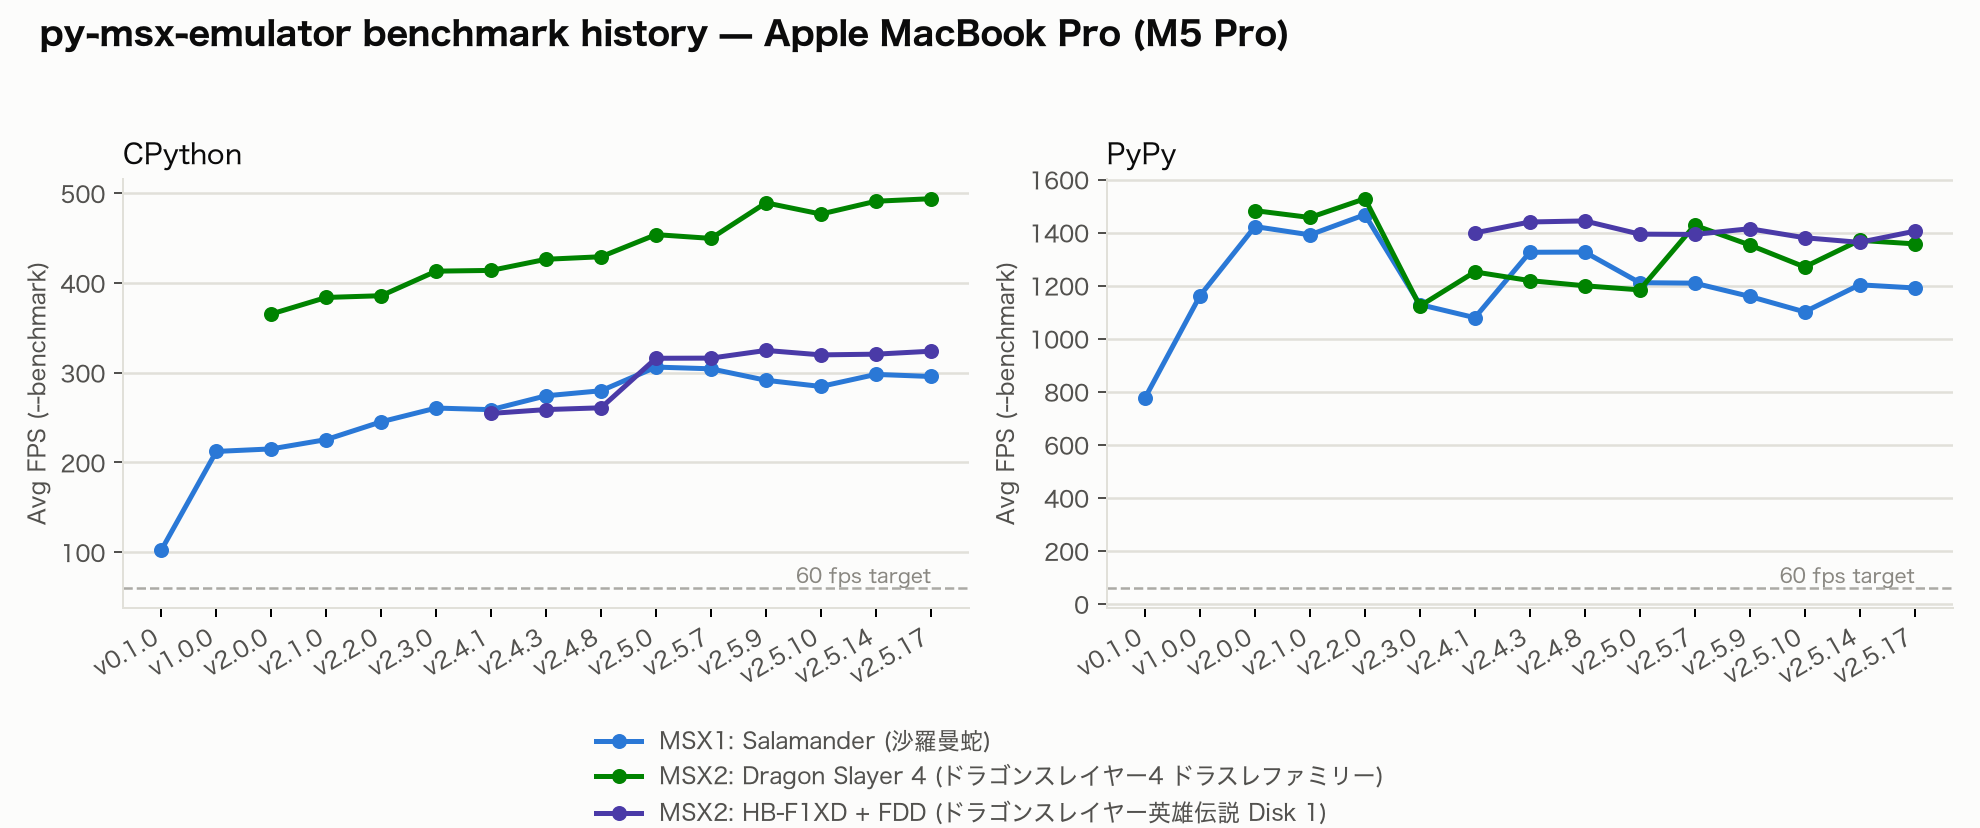
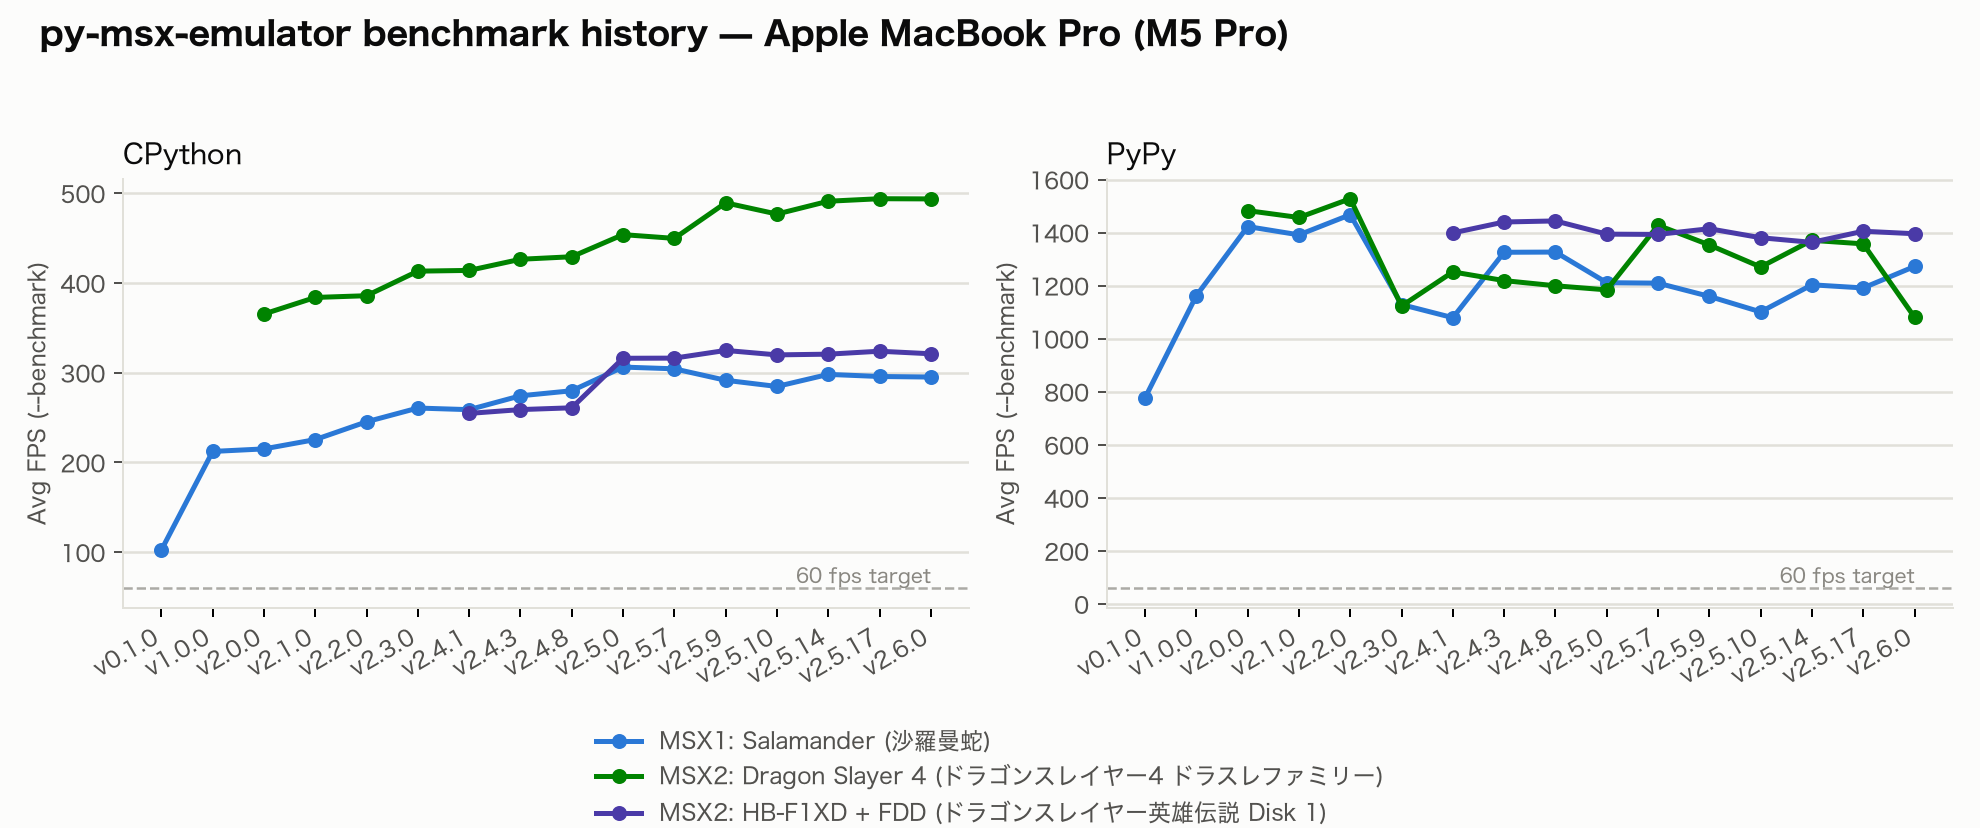
chore(bench): update README benchmark history to v2.6.0
Update README.md/README_ja.md's Performance table and "Benchmark
history" prose/charts with logs/bench-on-v2.6.0_{m5pro,rpi5}.md
(regenerated via venvs/chart-tools/bin/python
scripts/plot_benchmark_history.py). Tightest-margin case's PyPy ratio
moves from ~4.8x to ~5.4x (Raspberry Pi 5, Salamander) -- otherwise no
change to the overall picture; every combination still clears the raw
60 fps target.

Also carries scripts/run_benchmarks.py's already-updated save-state
paths (refreshed after the state-format-version bump to 13 earlier on
this branch made the old v2.5.14-era states unloadable) and the two
new state files those benchmarks were captured against, following the
same refresh pattern as d7fe510.

diff --git a/README_ja.md b/README_ja.md
@@ -348,26 +348,26 @@ All VRAM addresses SHALL be masked to 14 bits (`& 0x3FFF`).
 
 | プラットフォーム | ランタイム | ゲーム | 平均 FPS（`--benchmark`） | 60 fps 目標との比 |
 | --- | --- | --- | --- | --- |
-| Apple MacBook Pro（M5 Pro） | CPython 3.12.13 | MSX1: 沙羅曼蛇（CPU+TMS9918+SCC） | 295.83 | 約 4.9 倍 |
-| Apple MacBook Pro（M5 Pro） | CPython 3.12.13 | MSX2: ドラゴンスレイヤー4（CPU+V9938+PSG） | 493.93 | 約 8.2 倍 |
-| Apple MacBook Pro（M5 Pro） | CPython 3.12.13 | MSX2: ドラゴンスレイヤー英雄伝説（CPU+V9938+FDC+FMPAC） | 323.99 | 約 5.4 倍 |
-| Apple MacBook Pro（M5 Pro） | PyPy 7.3.19（Python 3.10.16） | MSX1: 沙羅曼蛇（CPU+TMS9918+SCC） | 1191.37 | 約 19.9 倍 |
-| Apple MacBook Pro（M5 Pro） | PyPy 7.3.19（Python 3.10.16） | MSX2: ドラゴンスレイヤー4（CPU+V9938+PSG） | 1357.57 | 約 22.6 倍 |
-| Apple MacBook Pro（M5 Pro） | PyPy 7.3.19（Python 3.10.16） | MSX2: ドラゴンスレイヤー英雄伝説（CPU+V9938+FDC+FMPAC） | 1405.11 | 約 23.4 倍 |
-| Raspberry Pi 5 | CPython 3.12.13 | MSX1: 沙羅曼蛇（CPU+TMS9918+SCC） | 76.07 | 約 1.3 倍 |
-| Raspberry Pi 5 | CPython 3.12.13 | MSX2: ドラゴンスレイヤー4（CPU+V9938+PSG） | 128.14 | 約 2.1 倍 |
-| Raspberry Pi 5 | CPython 3.12.13 | MSX2: ドラゴンスレイヤー英雄伝説（CPU+V9938+FDC+FMPAC） | 86.23 | 約 1.4 倍 |
-| Raspberry Pi 5 | PyPy 7.3.19（Python 3.10.16） | MSX1: 沙羅曼蛇（CPU+TMS9918+SCC） | 290.71 | 約 4.8 倍 |
-| Raspberry Pi 5 | PyPy 7.3.19（Python 3.10.16） | MSX2: ドラゴンスレイヤー4（CPU+V9938+PSG） | 417.38 | 約 7.0 倍 |
-| Raspberry Pi 5 | PyPy 7.3.19（Python 3.10.16） | MSX2: ドラゴンスレイヤー英雄伝説（CPU+V9938+FDC+FMPAC） | 334.40 | 約 5.6 倍 |
+| Apple MacBook Pro（M5 Pro） | CPython 3.12.13 | MSX1: 沙羅曼蛇（CPU+TMS9918+SCC） | 295.19 | 約 4.9 倍 |
+| Apple MacBook Pro（M5 Pro） | CPython 3.12.13 | MSX2: ドラゴンスレイヤー4（CPU+V9938+PSG） | 493.71 | 約 8.2 倍 |
+| Apple MacBook Pro（M5 Pro） | CPython 3.12.13 | MSX2: ドラゴンスレイヤー英雄伝説（CPU+V9938+FDC+FMPAC） | 321.14 | 約 5.4 倍 |
+| Apple MacBook Pro（M5 Pro） | PyPy 7.3.19（Python 3.10.16） | MSX1: 沙羅曼蛇（CPU+TMS9918+SCC） | 1272.26 | 約 21.2 倍 |
+| Apple MacBook Pro（M5 Pro） | PyPy 7.3.19（Python 3.10.16） | MSX2: ドラゴンスレイヤー4（CPU+V9938+PSG） | 1081.10 | 約 18.0 倍 |
+| Apple MacBook Pro（M5 Pro） | PyPy 7.3.19（Python 3.10.16） | MSX2: ドラゴンスレイヤー英雄伝説（CPU+V9938+FDC+FMPAC） | 1395.74 | 約 23.3 倍 |
+| Raspberry Pi 5 | CPython 3.12.13 | MSX1: 沙羅曼蛇（CPU+TMS9918+SCC） | 75.85 | 約 1.3 倍 |
+| Raspberry Pi 5 | CPython 3.12.13 | MSX2: ドラゴンスレイヤー4（CPU+V9938+PSG） | 128.38 | 約 2.1 倍 |
+| Raspberry Pi 5 | CPython 3.12.13 | MSX2: ドラゴンスレイヤー英雄伝説（CPU+V9938+FDC+FMPAC） | 86.34 | 約 1.4 倍 |
+| Raspberry Pi 5 | PyPy 7.3.19（Python 3.10.16） | MSX1: 沙羅曼蛇（CPU+TMS9918+SCC） | 325.80 | 約 5.4 倍 |
+| Raspberry Pi 5 | PyPy 7.3.19（Python 3.10.16） | MSX2: ドラゴンスレイヤー4（CPU+V9938+PSG） | 288.15 | 約 4.8 倍 |
+| Raspberry Pi 5 | PyPy 7.3.19（Python 3.10.16） | MSX2: ドラゴンスレイヤー英雄伝説（CPU+V9938+FDC+FMPAC） | 333.62 | 約 5.6 倍 |
 
-今回計測したすべての組み合わせが、生の 60 fps 目標をクリアしています。最も余裕が小さいのは Raspberry Pi 5 + CPython で沙羅曼蛇（MSX1、KonamiSCC マッパー — 対象タイトルの中で描画・オーディオ負荷が最も重い）を実行した場合で、約 1.3 倍です。PyPy に切り替えると同じケースが約 4.8 倍まで上がります。Raspberry Pi 5 より低速なハードウェア、あるいはより重いタイトルでは 60 fps を下回ることがあり、その場合は達成されたフレームレートに比例してゲームがスローモーションで動作します。オーディオサンプルはフレームごとに生成される一方でオーディオデバイスは常に 44100 Hz で消費するため、オーディオも劣化します（クリックノイズや無音）。PyPy3 はそのまま代替として使えるランタイムであり、処理能力の低いハードウェアでのスループットを大幅に改善するため、Raspberry Pi のような制約のあるハードウェアで余裕を保つために推奨されます。
+今回計測したすべての組み合わせが、生の 60 fps 目標をクリアしています。最も余裕が小さいのは Raspberry Pi 5 + CPython で沙羅曼蛇（MSX1、KonamiSCC マッパー — 対象タイトルの中で描画・オーディオ負荷が最も重い）を実行した場合で、約 1.3 倍です。PyPy に切り替えると同じケースが約 5.4 倍まで上がります。Raspberry Pi 5 より低速なハードウェア、あるいはより重いタイトルでは 60 fps を下回ることがあり、その場合は達成されたフレームレートに比例してゲームがスローモーションで動作します。オーディオサンプルはフレームごとに生成される一方でオーディオデバイスは常に 44100 Hz で消費するため、オーディオも劣化します（クリックノイズや無音）。PyPy3 はそのまま代替として使えるランタイムであり、処理能力の低いハードウェアでのスループットを大幅に改善するため、Raspberry Pi のような制約のあるハードウェアで余裕を保つために推奨されます。
 
 PyPy の数値は CPython よりも実行ごとのブレが大きくなりやすい点に注意してください。特定の（プラットフォーム、ゲーム）の組み合わせで、通常の範囲から大きく外れた値が出ることがあります。エミュレータ自体の問題というより、OS/ハードウェア側のスケジューリング挙動（コア間の移動やサーマルスロットリングなど）が原因である可能性が高いです。PyPy の数値は正確な値というより、大まかな目安として捉えてください。
 
 ### ベンチマーク推移
 
-v0.1.0 から v2.5.17 までの平均 FPS（`--benchmark`）の推移（プラットフォーム・ランタイム別）：
+v0.1.0 から v2.6.0 までの平均 FPS（`--benchmark`）の推移（プラットフォーム・ランタイム別）：
 
 ![Apple MacBook Pro（M5 Pro）でのベンチマーク推移](assets/bench-history-m5pro.png)
 

diff --git a/README.md b/README.md
@@ -538,23 +538,23 @@ score.
 
 | Platform | Runtime | Game | Avg FPS (`--benchmark`) | vs. 60 fps target |
 | --- | --- | --- | --- | --- |
-| Apple MacBook Pro (M5 Pro) | CPython 3.12.13 | MSX1: Salamander (CPU+TMS9918+SCC) | 295.83 | ~4.9× |
-| Apple MacBook Pro (M5 Pro) | CPython 3.12.13 | MSX2: Dragon Slayer 4 (CPU+V9938+PSG) | 493.93 | ~8.2× |
-| Apple MacBook Pro (M5 Pro) | CPython 3.12.13 | MSX2: Dragon Slayer VI - The Legend of Heroes (CPU+V9938+FDC+FMPAC) | 323.99 | ~5.4× |
-| Apple MacBook Pro (M5 Pro) | PyPy 7.3.19 (Python 3.10.16) | MSX1: Salamander (CPU+TMS9918+SCC) | 1191.37 | ~19.9× |
-| Apple MacBook Pro (M5 Pro) | PyPy 7.3.19 (Python 3.10.16) | MSX2: Dragon Slayer 4 (CPU+V9938+PSG) | 1357.57 | ~22.6× |
-| Apple MacBook Pro (M5 Pro) | PyPy 7.3.19 (Python 3.10.16) | MSX2: Dragon Slayer VI - The Legend of Heroes (CPU+V9938+FDC+FMPAC) | 1405.11 | ~23.4× |
-| Raspberry Pi 5 | CPython 3.12.13 | MSX1: Salamander (CPU+TMS9918+SCC) | 76.07 | ~1.3× |
-| Raspberry Pi 5 | CPython 3.12.13 | MSX2: Dragon Slayer 4 (CPU+V9938+PSG) | 128.14 | ~2.1× |
-| Raspberry Pi 5 | CPython 3.12.13 | MSX2: Dragon Slayer VI - The Legend of Heroes (CPU+V9938+FDC+FMPAC) | 86.23 | ~1.4× |
-| Raspberry Pi 5 | PyPy 7.3.19 (Python 3.10.16) | MSX1: Salamander (CPU+TMS9918+SCC) | 290.71 | ~4.8× |
-| Raspberry Pi 5 | PyPy 7.3.19 (Python 3.10.16) | MSX2: Dragon Slayer 4 (CPU+V9938+PSG) | 417.38 | ~7.0× |
-| Raspberry Pi 5 | PyPy 7.3.19 (Python 3.10.16) | MSX2: Dragon Slayer VI - The Legend of Heroes (CPU+V9938+FDC+FMPAC) | 334.40 | ~5.6× |
+| Apple MacBook Pro (M5 Pro) | CPython 3.12.13 | MSX1: Salamander (CPU+TMS9918+SCC) | 295.19 | ~4.9× |
+| Apple MacBook Pro (M5 Pro) | CPython 3.12.13 | MSX2: Dragon Slayer 4 (CPU+V9938+PSG) | 493.71 | ~8.2× |
+| Apple MacBook Pro (M5 Pro) | CPython 3.12.13 | MSX2: Dragon Slayer VI - The Legend of Heroes (CPU+V9938+FDC+FMPAC) | 321.14 | ~5.4× |
+| Apple MacBook Pro (M5 Pro) | PyPy 7.3.19 (Python 3.10.16) | MSX1: Salamander (CPU+TMS9918+SCC) | 1272.26 | ~21.2× |
+| Apple MacBook Pro (M5 Pro) | PyPy 7.3.19 (Python 3.10.16) | MSX2: Dragon Slayer 4 (CPU+V9938+PSG) | 1081.10 | ~18.0× |
+| Apple MacBook Pro (M5 Pro) | PyPy 7.3.19 (Python 3.10.16) | MSX2: Dragon Slayer VI - The Legend of Heroes (CPU+V9938+FDC+FMPAC) | 1395.74 | ~23.3× |
+| Raspberry Pi 5 | CPython 3.12.13 | MSX1: Salamander (CPU+TMS9918+SCC) | 75.85 | ~1.3× |
+| Raspberry Pi 5 | CPython 3.12.13 | MSX2: Dragon Slayer 4 (CPU+V9938+PSG) | 128.38 | ~2.1× |
+| Raspberry Pi 5 | CPython 3.12.13 | MSX2: Dragon Slayer VI - The Legend of Heroes (CPU+V9938+FDC+FMPAC) | 86.34 | ~1.4× |
+| Raspberry Pi 5 | PyPy 7.3.19 (Python 3.10.16) | MSX1: Salamander (CPU+TMS9918+SCC) | 325.80 | ~5.4× |
+| Raspberry Pi 5 | PyPy 7.3.19 (Python 3.10.16) | MSX2: Dragon Slayer 4 (CPU+V9938+PSG) | 288.15 | ~4.8× |
+| Raspberry Pi 5 | PyPy 7.3.19 (Python 3.10.16) | MSX2: Dragon Slayer VI - The Legend of Heroes (CPU+V9938+FDC+FMPAC) | 333.62 | ~5.6× |
 
 Every combination tested clears the raw 60 fps target. The tightest margin is
 Raspberry Pi 5 with CPython running Salamander (MSX1, KonamiSCC mapper — the
 heaviest rendering/audio load among the target titles) at ~1.3×; PyPy raises the
-same case to ~4.8×. On hardware weaker than a Raspberry Pi 5, or under a heavier
+same case to ~5.4×. On hardware weaker than a Raspberry Pi 5, or under a heavier
 title, a run can still drop below 60 fps — in which case the game runs in slow
 motion at a rate proportional to the achieved frame rate, and audio degrades
 (clicks or silence) because samples are generated per-frame while the audio
@@ -570,7 +570,7 @@ PyPy figures as broadly indicative rather than exact.
 
 ### Benchmark history
 
-Avg FPS (`--benchmark`) from v0.1.0 through v2.5.17, per platform and runtime:
+Avg FPS (`--benchmark`) from v0.1.0 through v2.6.0, per platform and runtime:
 
 ![Benchmark history on Apple MacBook Pro (M5 Pro)](assets/bench-history-m5pro.png)
 
